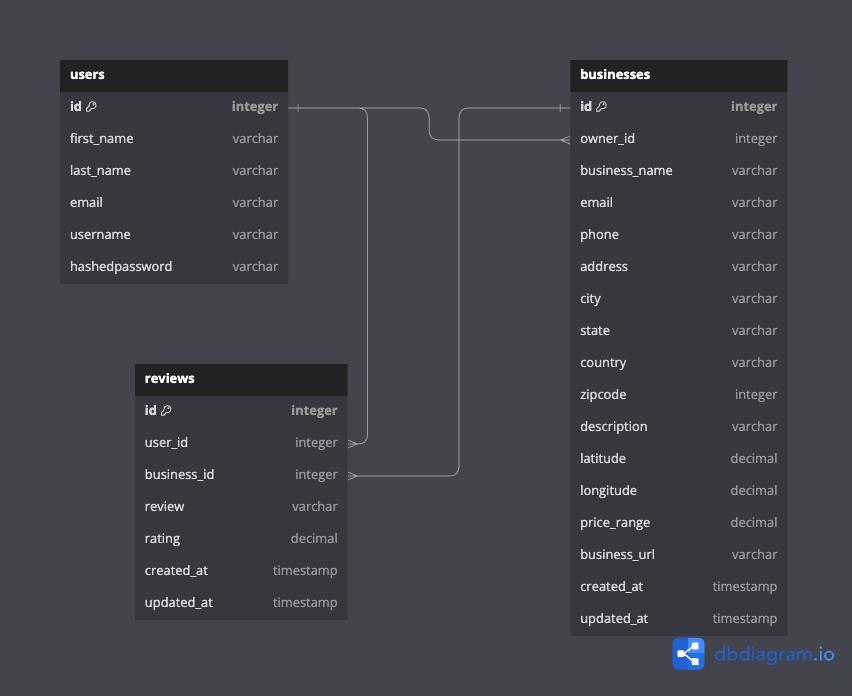
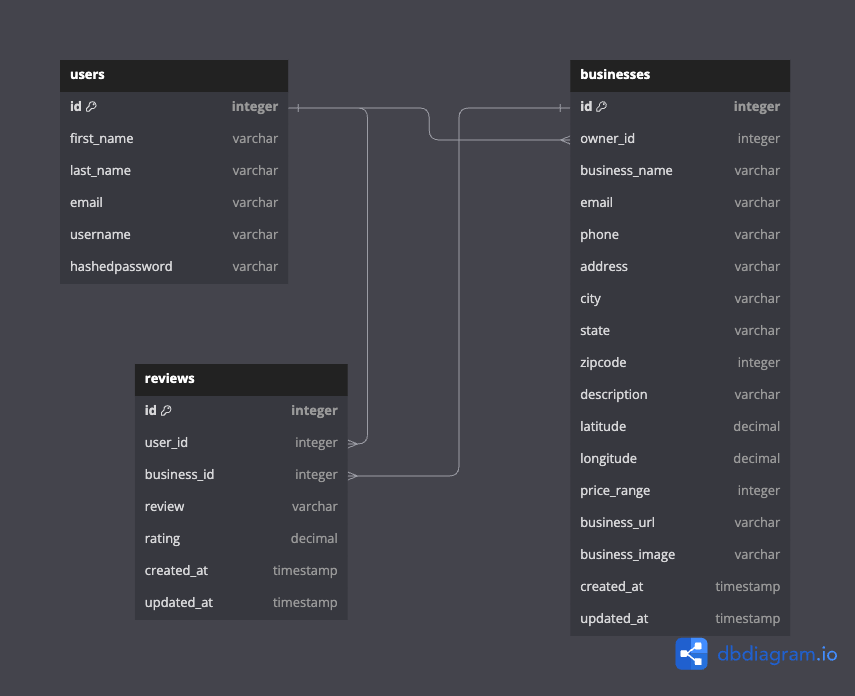
created reivew models, making some businesses seed data

diff --git a/app/seeds/businesses.py b/app/seeds/businesses.py
@@ -1,0 +1,62 @@
+from app.models import db, Business, environment, SCHEMA
+from sqlalchemy.sql import text
+
+def seed_businesses():
+    business1 = Business(
+        owner_id = 2,
+        business_name = 'Nubiani',
+        phone = '917-623-0807',
+        address = '315 5th Ave Fl 3',
+        city = 'New York',
+        state = 'NY',
+        zipcode = '10016',
+        description = 'NUBIANI - " Sliced Meat directly cooked over a fire" The term "NUBIANI" refers to grilled meat on direct heat that Koreans used to enjoy in the ancient Manchuria region. As nomadic people in ancient times, Koreans were highly skilled in cooking meat using a fire pit, the earliest form of barbeque, and in bringing out the natural flavors of the ingredient with minimal seasoning. Since then, cooking meat on direct heat has developed into a culinary art form over time in Korea. Located in the heart of Manhattan, NUBIANI is now open with a goal of further developing the transcendent Korean culinary culture of grilling meat, and introducing the finest flavors from direct heat cooking to the world.',
+        latitude = 40.7471,
+        longitude = -73.9854,
+        price_range = 3,
+        business_url = 'https://www.nubianinyc.com/',
+        business_image = 'https://s3-media0.fl.yelpcdn.com/bphoto/X6HVBVgZdZDTh5tLb77mFw/o.jpg'
+    )
+    business2 = Business(
+        owner_id = 2,
+        business_name = 'COTE Korean Steakhouse',
+        phone = '212-401-7986',
+        address = '16 W 22nd St',
+        city = 'New York',
+        state = 'NY',
+        zipcode = '10010',
+        description = "COTE, the carnivorous vision of proprietor Simon Kim, blends the dining experience of Korean barbecue together with the hallmarks of a classic American steakhouse. The result is a unique, convivial and interactive atmosphere, accompanied by the highest quality USDA Prime beef, an impeccable 1200+ label wine list, and a suite of classic-but-creative cocktails. Smokeless grills in every table, combined with cuts from our in-house dry aging room, ensure that every morsel of steak is hot, fresh, and caramelized to perfection. COTE is New York City's first Korean Steakhouse.",
+        latitude = 40.7415,
+        longitude = -73.9912,
+        price_range = 4,
+        business_url = 'https://www.cotekoreansteakhouse.com/',
+        business_image = 'https://assets-global.website-files.com/64dc46f3bd5126f2de6e5a04/65739ed106fcaedf0e2fb0eb_MEET-OUR-MEATweb.webp'
+    )
+    business3 = Business(
+        owner_id = 1,
+        business_name = 'BCD Tofu House',
+        phone = '212-967-1900',
+        address = '5 W 32nd St',
+        city = 'New York',
+        state = 'NY',
+        zipcode = '10001',
+        description = 'BCD Tofu House is a popular Korean restaurant chain known for its authentic Korean cuisine, specializing in tofu-based dishes. The name "BCD" stands for "Bukchon Dong," a neighborhood in Seoul, South Korea, renowned for its traditional Korean culture and cuisine.',
+        latitude = 40.7477,
+        longitude = -73.9860,
+        price_range = 2,
+        business_url = 'https://www.bcdtofuhouse.com/',
+        business_image = 'https://images.squarespace-cdn.com/content/v1/5cc8bc4f93a632622cd1616d/1558025251826-FKQBA9WWWZCTU25E138M/image-asset.jpeg'
+    )
+
+    db.session.add(business1)
+    db.session.add(business2)
+    db.session.add(business3)
+    db.session.commit()
+
+def undo_businesses():
+    if environment == "production":
+        db.session.execute(f"TRUNCATE table {SCHEMA}.businesses RESTART IDENTITY CASCADE;")
+    else:
+        db.session.execute(text("DELETE FROM businesses"))
+
+    db.session.commit()

diff --git a/app/models/review.py b/app/models/review.py
@@ -1,0 +1,30 @@
+from .db import db, environment, SCHEMA, add_prefix_for_prod
+from datetime import datetime
+
+class Review(db.Model):
+    __tablename__ = 'reviews'
+
+    if environment == 'production':
+        __table_args__ = {'schema': SCHEMA}
+
+    id = db.Column(db.Integer, primary_key=True)
+    user_id = db.Column(db.Integer, db.ForeignKey(add_prefix_for_prod('users.id')), nullable=False)
+    business_id = db.Column(db.Integer, db.ForeignKey(add_prefix_for_prod('businesses.id')), nullable=False)
+    review = db.Column(db.String(3000), nullable=False)
+    rating = db.Column(db.Integer, nullable=False)
+    created_at = db.Column(db.DateTime, default=datetime.now)
+    updated_at = db.Column(db.DateTime, default=datetime.now, onupdate=datetime.now)
+
+    user = db.relationship('User', back_populates='reviews')
+    business = db.relationship('Business', back_populates='reviews')
+
+    def to_dict(self):
+        return {
+            'id': self.id,
+            'user_id' : self.user_id,
+            'business_id' : self.business_id,
+            'review' : self.review,
+            'rating' : self.rating,
+            'created_at' : self.created_at,
+            'updated_at' : self.updated_at
+        }

diff --git a/app/models/business.py b/app/models/business.py
@@ -10,7 +10,6 @@ class Business(db.Model):
     id = db.Column(db.Integer, primary_key=True)
     owner_id = db.Column(db.Integer, db.ForeignKey(add_prefix_for_prod('users.id')), nullable=False)
     business_name = db.Column(db.String(50), nullable=False)
-    email = db.Column(db.String(50), nullable=False)
     phone = db.Column(db.String(12), nullable=False)
     address = db.Column(db.String(50), nullable=False)
     city = db.Column(db.String(25), nullable=False)
@@ -25,7 +24,8 @@ class Business(db.Model):
     created_at = db.Column(db.DateTime, default=datetime.now)
     updated_at = db.Column(db.DateTime, default=datetime.now, onupdate=datetime.now)
 
-    owner = db.relationship("User", back_populates="businesses")
+    owner = db.relationship("User", back_populates='businesses')
+    reviews = db.relationship('Reviews', back_populates='business')
 
     def to_dict(self):
         return {

diff --git a/app/models/user.py b/app/models/user.py
@@ -16,7 +16,8 @@ class User(db.Model, UserMixin):
     email = db.Column(db.String(255), nullable=False, unique=True)
     hashed_password = db.Column(db.String(255), nullable=False)
 
-    businesses = db.relationship("Business", back_populates="owner")
+    businesses = db.relationship('Business', back_populates='owner')
+    reviews = db.relationship('Reviews', back_populates='user')
 
     @property
     def password(self):

diff --git a/app/models/__init__.py b/app/models/__init__.py
@@ -1,4 +1,5 @@
 from .db import db
 from .user import User
 from .business import Business
+from .review import Review
 from .db import environment, SCHEMA
